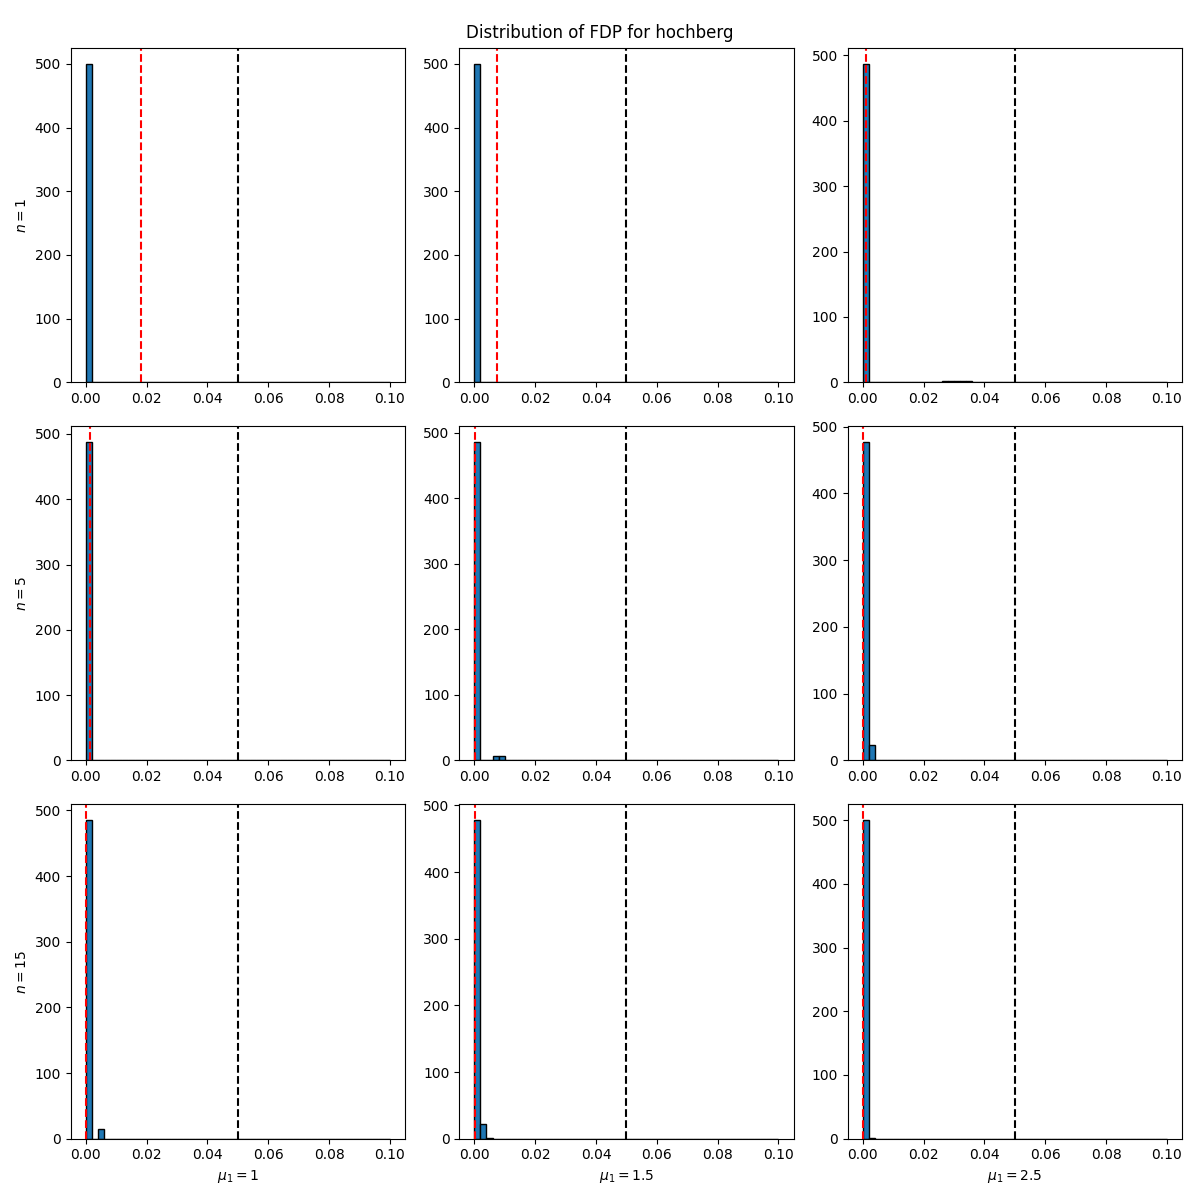
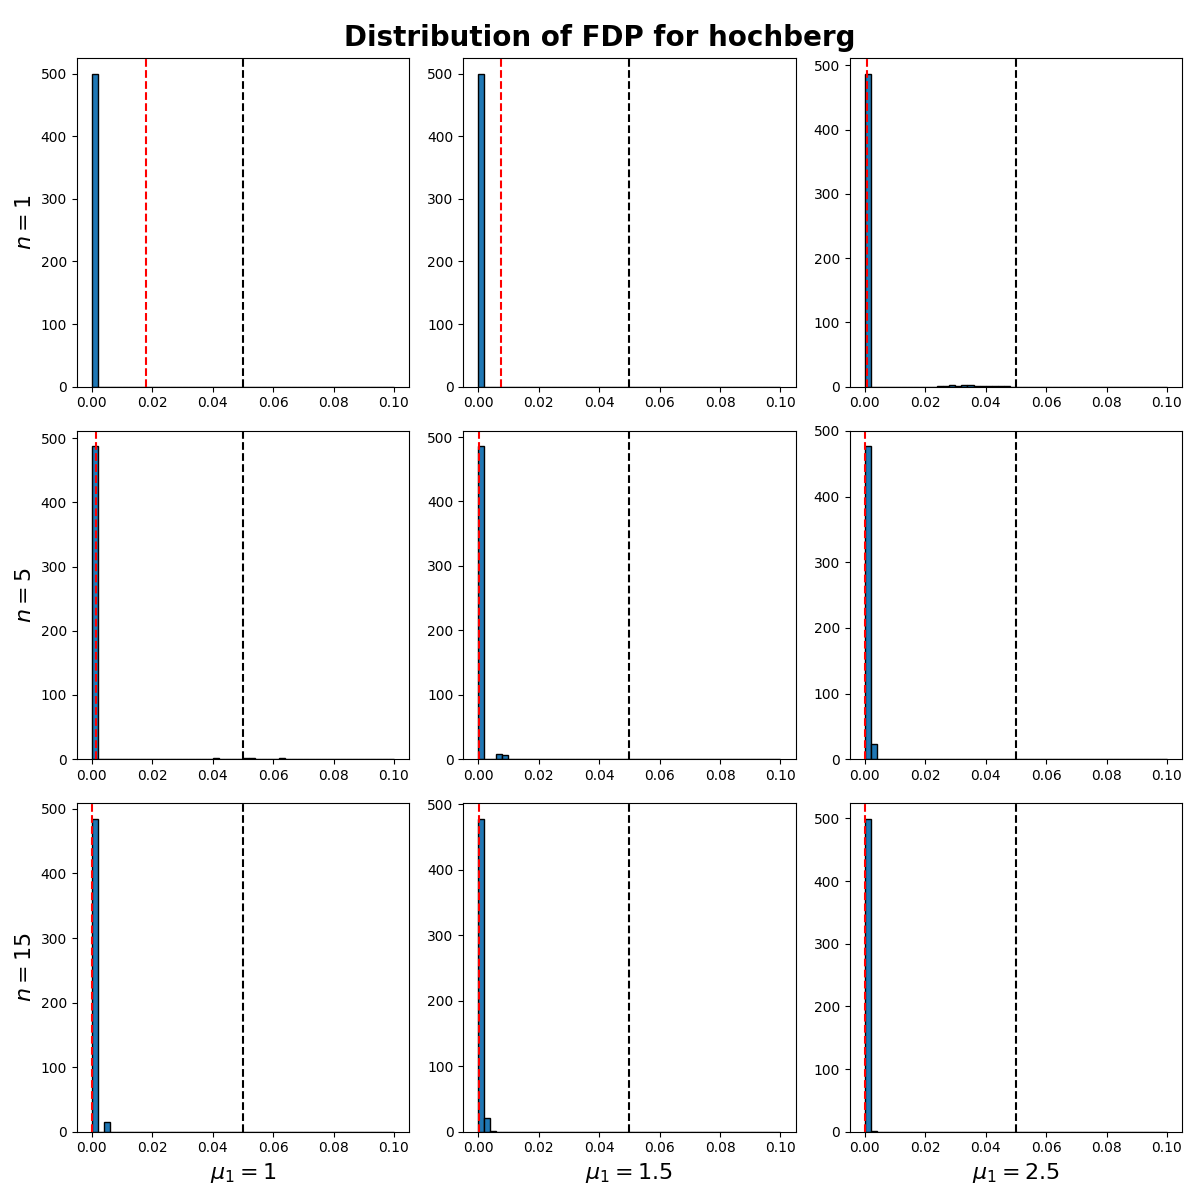
Change graph formatting

Changed region(s): [[0.0, 0.0, 0.9867, 0.9867]]

diff --git a/main.py b/main.py
@@ -3,11 +3,18 @@ from src.utils import get_pvalues_z_test, get_t_statistics_z_test, F0_unif, F1_z
 
 import os
 
+import matplotlib as mpl
 import matplotlib.pyplot as plt
 import numpy as np
 
 
 np.random.seed(42)
+
+mpl.rcParams.update({
+    'figure.titlesize': 20,
+    'figure.titleweight': 'bold',
+    'axes.labelsize': 16,
+})
 
 figure_1 = './figures/pvalues_h0.png'
 figure_2 = './figures/pvalues_h1.png'
@@ -15,7 +22,7 @@ figures_3 = ['./figures/FWER_bonferroni.png', './figures/FWER_holm_bonferroni.pn
 figures_4 = ['./figures/FDR_bonferroni.png', './figures/FDR_holm_bonferroni.png', './figures/FDR_hochberg.png', './figures/FDR_benjamini_hochberg.png']
 figures_5 = ['./figures/POW_bonferroni.png', './figures/POW_holm_bonferroni.png', './figures/POW_hochberg.png', './figures/POW_benjamini_hochberg.png']
 
-if not os.path.isfile(figure_1):
+if os.path.isfile(figure_1):
     m0 = 10000
     mu0 = 0
     mu0_ = np.ones(m0) * mu0
@@ -32,11 +39,11 @@ if not os.path.isfile(figure_1):
     ax.set_xlim(0, 1)
     ax.set_ylim(0, 1.1)
     fig.suptitle('CDF of p-values under $H_0$')
-    fig.legend()
+    ax.legend(loc='best')
     fig.tight_layout()
     fig.savefig(figure_1)
 
-if not os.path.isfile(figure_2):
+if os.path.isfile(figure_2):
     m1 = 10000
     mu0 = 0
     mu1 = [1, 1.5, 2.5]
@@ -63,7 +70,7 @@ if not os.path.isfile(figure_2):
     plt.tight_layout()
     plt.savefig(figure_2)
 
-if not os.path.isfile(figures_3[0]) or not os.path.isfile(figures_4[0]):
+if os.path.isfile(figures_3[0]) or not os.path.isfile(figures_4[0]):
     alpha = 0.05
     m = 1000
     pi0 = 0.5
